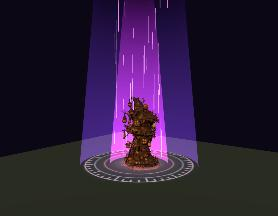
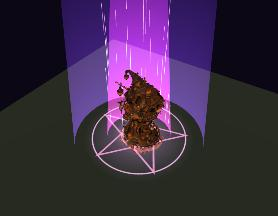
feat(season): slowly turning pentagram under the Horror-Haus pillar
The outer ring and tick marks are gone; the ground sign is a pentagram
in one circle that turns once in about 90 seconds.

diff --git a/web/src/render/legendaryGlow.ts b/web/src/render/legendaryGlow.ts
@@ -6,7 +6,7 @@ import * as THREE from 'three';
  * violet light, a brighter magenta core, streaks of light that climb through it and a ring with
  * tick marks that turns slowly on the ground. Purely visual: additive, no depth write, never hit by
  * a tap. Geometry and materials are shared by all houses; everything moves from the draw call (no
- * extra loop) and stands still with reduced motion.
+ * extra loop) and stands still with reduced motion. The ground sign is a slowly turning pentagram.
  */
 const HEIGHT = 16;
 const STREAKS = 44;
@@ -69,29 +69,31 @@ function ringTexture(): THREE.CanvasTexture {
     glow.addColorStop(1, 'rgba(120,60,255,0)');
     ctx.fillStyle = glow;
     ctx.fillRect(0, 0, size, size);
-    ctx.lineWidth = 2.5;
-    for (const [radius, colour] of [
-      [0.9, 'rgba(255,120,245,0.95)'],
-      [0.74, 'rgba(120,150,255,0.85)'],
-      [0.58, 'rgba(255,80,160,0.8)'],
-    ] as const) {
-      ctx.strokeStyle = colour;
-      ctx.beginPath();
-      ctx.arc(c, c, c * radius, 0, Math.PI * 2);
-      ctx.stroke();
-    }
-    // tick marks between the two outer rings
-    ctx.strokeStyle = 'rgba(255,170,250,0.9)';
+    // a pentagram in its circle (the outer ring and the tick marks are gone, teacher 29.10.2026)
+    const radius = c * 0.84;
+    ctx.lineJoin = 'miter';
+    ctx.strokeStyle = 'rgba(255,120,245,0.95)';
     ctx.lineWidth = 3;
-    for (let i = 0; i < 48; i++) {
-      const a = (i / 48) * Math.PI * 2;
-      const r0 = c * (i % 4 === 0 ? 0.76 : 0.82);
-      const r1 = c * 0.9;
-      ctx.beginPath();
-      ctx.moveTo(c + Math.cos(a) * r0, c + Math.sin(a) * r0);
-      ctx.lineTo(c + Math.cos(a) * r1, c + Math.sin(a) * r1);
-      ctx.stroke();
+    ctx.beginPath();
+    ctx.arc(c, c, radius, 0, Math.PI * 2);
+    ctx.stroke();
+    ctx.strokeStyle = 'rgba(255,70,200,0.95)';
+    ctx.lineWidth = 4;
+    ctx.beginPath();
+    // every second corner of the five points, so the lines cross into a star
+    for (let i = 0; i <= 5; i++) {
+      const a = -Math.PI / 2 + ((i * 2) % 5) * ((Math.PI * 2) / 5);
+      const x = c + Math.cos(a) * radius;
+      const y = c + Math.sin(a) * radius;
+      if (i === 0) ctx.moveTo(x, y);
+      else ctx.lineTo(x, y);
     }
+    ctx.stroke();
+    ctx.strokeStyle = 'rgba(140,150,255,0.7)';
+    ctx.lineWidth = 2;
+    ctx.beginPath();
+    ctx.arc(c, c, radius * 0.38, 0, Math.PI * 2);
+    ctx.stroke();
   }
   return new THREE.CanvasTexture(canvas);
 }
@@ -114,7 +116,7 @@ function build(): GlowParts {
     map: ringTexture(),
     opacity: 0.9,
   });
-  const ring = new THREE.PlaneGeometry(10.5, 10.5);
+  const ring = new THREE.PlaneGeometry(9, 9);
   ring.rotateX(-Math.PI / 2);
   const rand = prng(2910);
   const seeds = new Float32Array(STREAKS * 5);
@@ -191,7 +193,7 @@ export function legendaryGlow(): THREE.Group {
       moveStreaks(shared, t);
     };
     ring.onBeforeRender = () => {
-      ring.rotation.y = (performance.now() / 1000) * 0.25;
+      ring.rotation.y = (performance.now() / 1000) * 0.07; // one turn in about 90 s
     };
   }
   return group;

diff --git a/Bugfix/BUGS.md b/Bugfix/BUGS.md
@@ -1187,7 +1187,7 @@ Ich habe **nichts eingebaut**: Lizenz ungeklärt, und der Tausch berührt ein Sp
 - **Geprüft:** im Browser auf einer Wegwerf-Seite mit dem echten Loader (Texturen korrekt, kein Schwarz/Grün, Haus steht auf dem 6 × 4-Platz). `npm test` 219 Dateien / 1324 Tests grün (u. a. Asset-Vertrag mit Fernversion).
 - **Nicht geprüft:** Galerie (`npm run galerie`) und das Haus im echten Dorf auf einem Mobilgerät; Kollision verwendet wie bei allen Häusern die Plot-Platzform, nicht das Modell. Das Haus ist mit 6 m recht hoch (Hausgrenze 6 m).
 - **Bild:** [bilder/BUG-011_02.jpg](bilder/BUG-011_02.jpg)
-- **Zusatz (Wunsch der Lehrkraft, 29.10.2026): Lichtsäule nach Referenzbild:** violetter Lichtvorhang, magentafarbener Kern, aufsteigende dünne Lichtstreifen und ein langsam drehender Ring mit Strichmarken am Boden, sanftes Pulsieren (steht still bei reduzierter Bewegung), nie antippbar. Nur dieses Haus (`web/src/render/legendaryGlow.ts`, eingebunden in `glbAsset`); geteilte Geometrie/Materialien, kein eigener Render-Loop. Bild: [bilder/BUG-011_03_leuchtkegel.jpg](bilder/BUG-011_03_leuchtkegel.jpg).
+- **Zusatz (Wunsch der Lehrkraft, 29.10.2026): Lichtsäule nach Referenzbild:** violetter Lichtvorhang, magentafarbener Kern, aufsteigende dünne Lichtstreifen und am Boden ein langsam drehendes Pentagramm (ein Kreis, kein äußerer Ring; eine Drehung in etwa 90 s), sanftes Pulsieren (steht still bei reduzierter Bewegung), nie antippbar. Nur dieses Haus (`web/src/render/legendaryGlow.ts`, eingebunden in `glbAsset`); geteilte Geometrie/Materialien, kein eigener Render-Loop. Bild: [bilder/BUG-011_03_leuchtkegel.jpg](bilder/BUG-011_03_leuchtkegel.jpg).
 
 ### Beobachtung (Ist)
 
